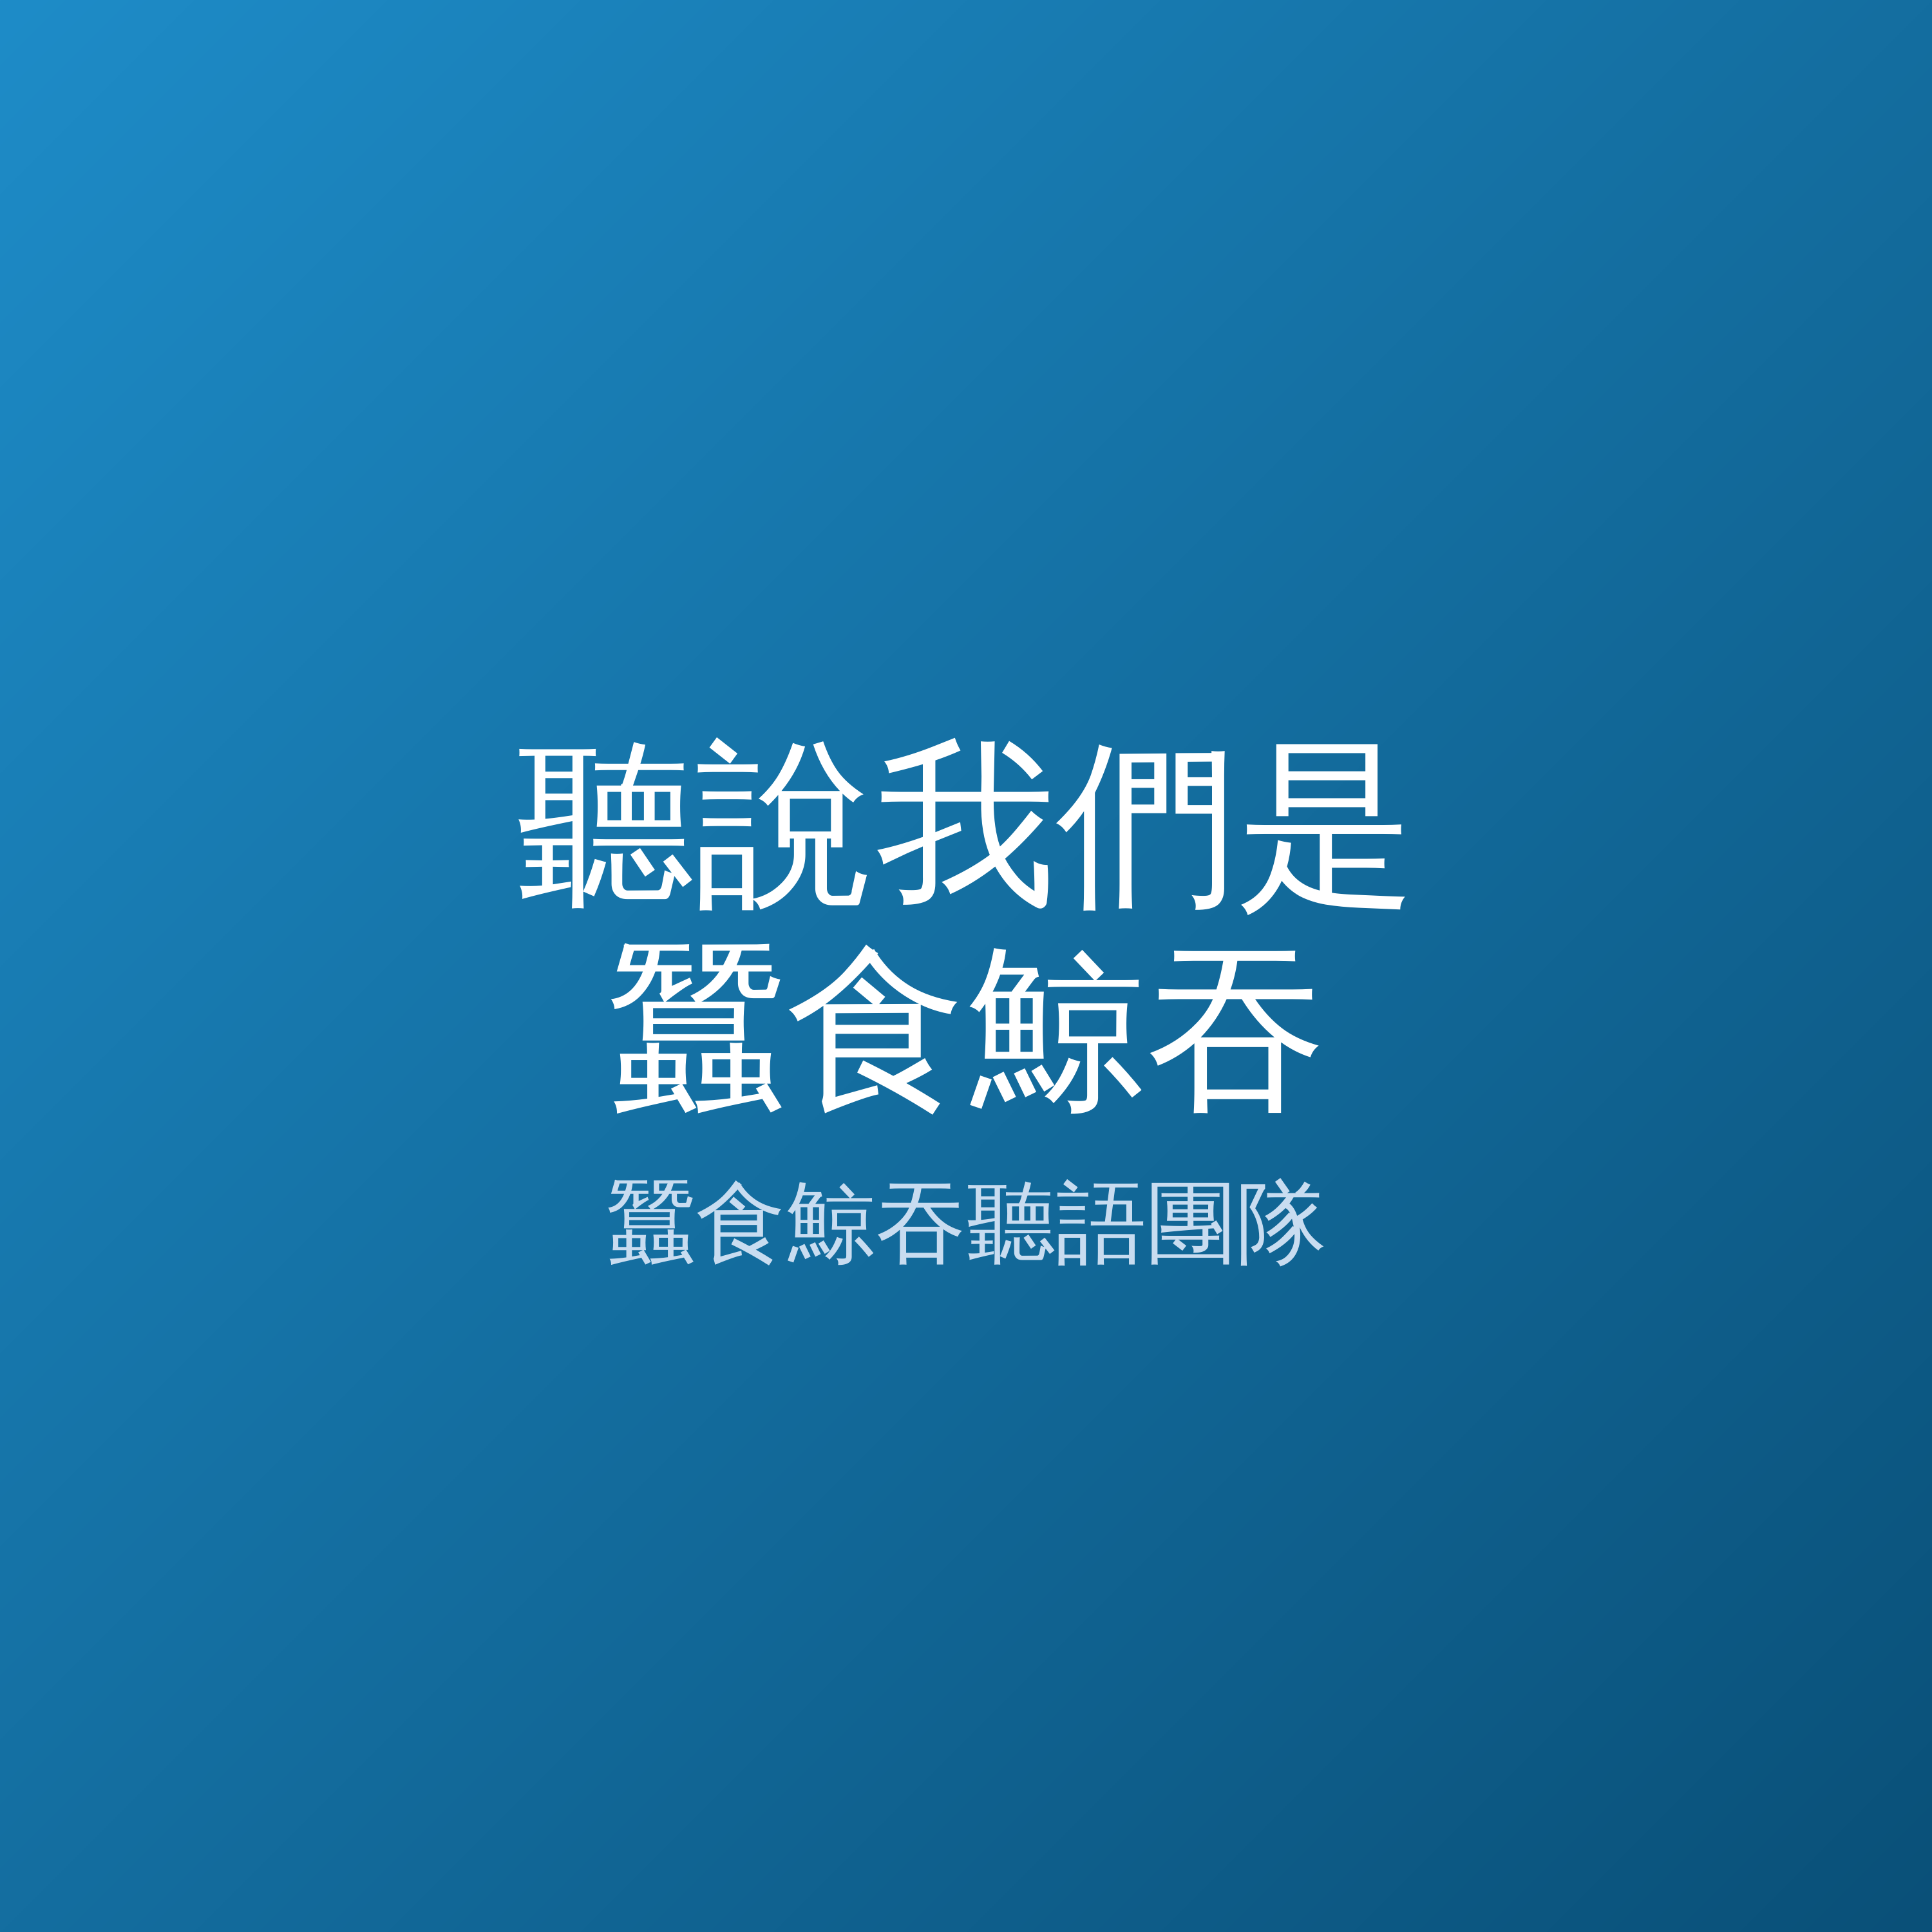
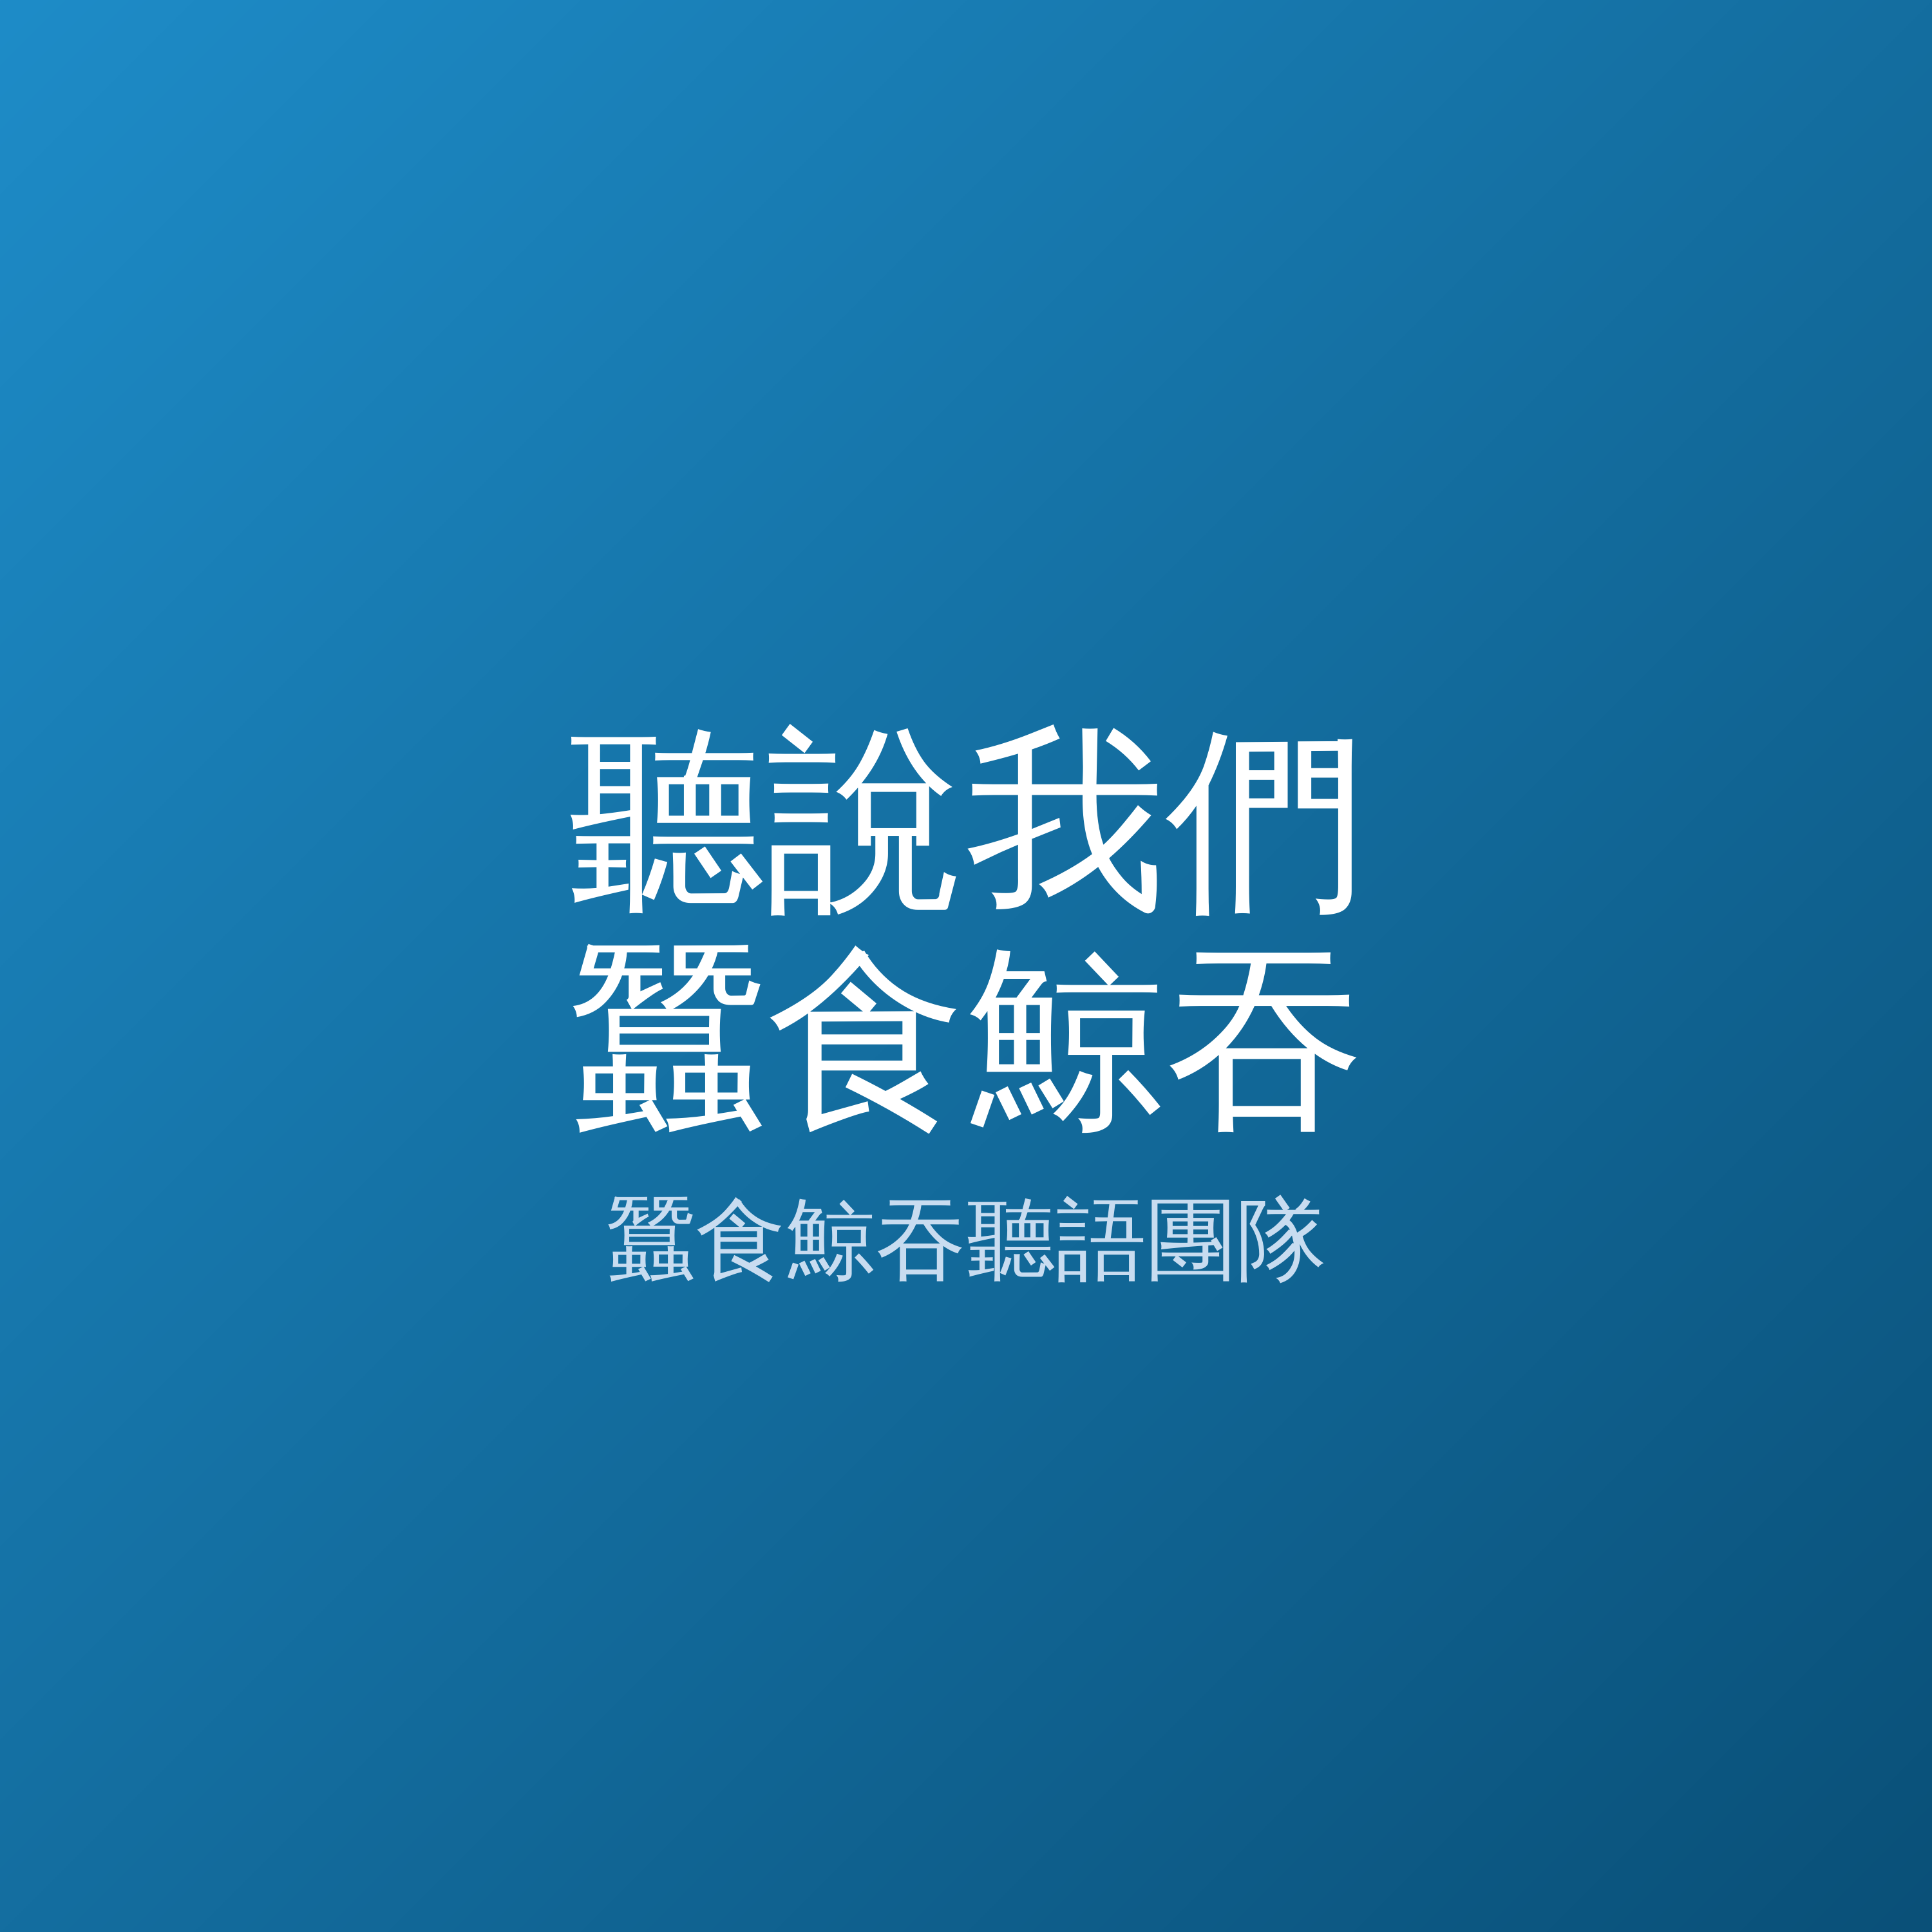
rename podcast to 聽說我們蠶食鯨吞 + update cover

Changed region(s): [[0.248, 0.372, 0.713, 0.682]]

diff --git a/server.js b/server.js
@@ -10,7 +10,7 @@ const PODCAST_FOLDER_ID = process.env.PODCAST_FOLDER_ID || "1Yiwx-jIqmw37TvbMl5d
 const MATON_API_KEY = process.env.MATON_API_KEY || "";
 // 支援 MATON_CONN（README 標準）或 MATON_CONNECTION_ID（舊版）
 const MATON_CONNECTION_ID = process.env.MATON_CONN || process.env.MATON_CONNECTION_ID || "aa84aef8-287a-4271-a4b7-26a67b0c6adf";
-const PODCAST_TITLE = process.env.PODCAST_TITLE || "聽說我們是蠶食鯨吞";
+const PODCAST_TITLE = process.env.PODCAST_TITLE || "聽說我們蠶食鯨吞";
 const PODCAST_DESCRIPTION = process.env.PODCAST_DESCRIPTION || "吞嚥復健、肌能訓練與臨床經驗分享。歡迎聽眾寫信到 [email redacted] 提問或表達意見，主持人會在製作新集數時參考大家的回饋一起討論！";
 const PODCAST_AUTHOR = process.env.PODCAST_AUTHOR || "蠶食鯨吞聽語團隊";
 const PODCAST_EMAIL = process.env.PODCAST_EMAIL || "[email redacted]";